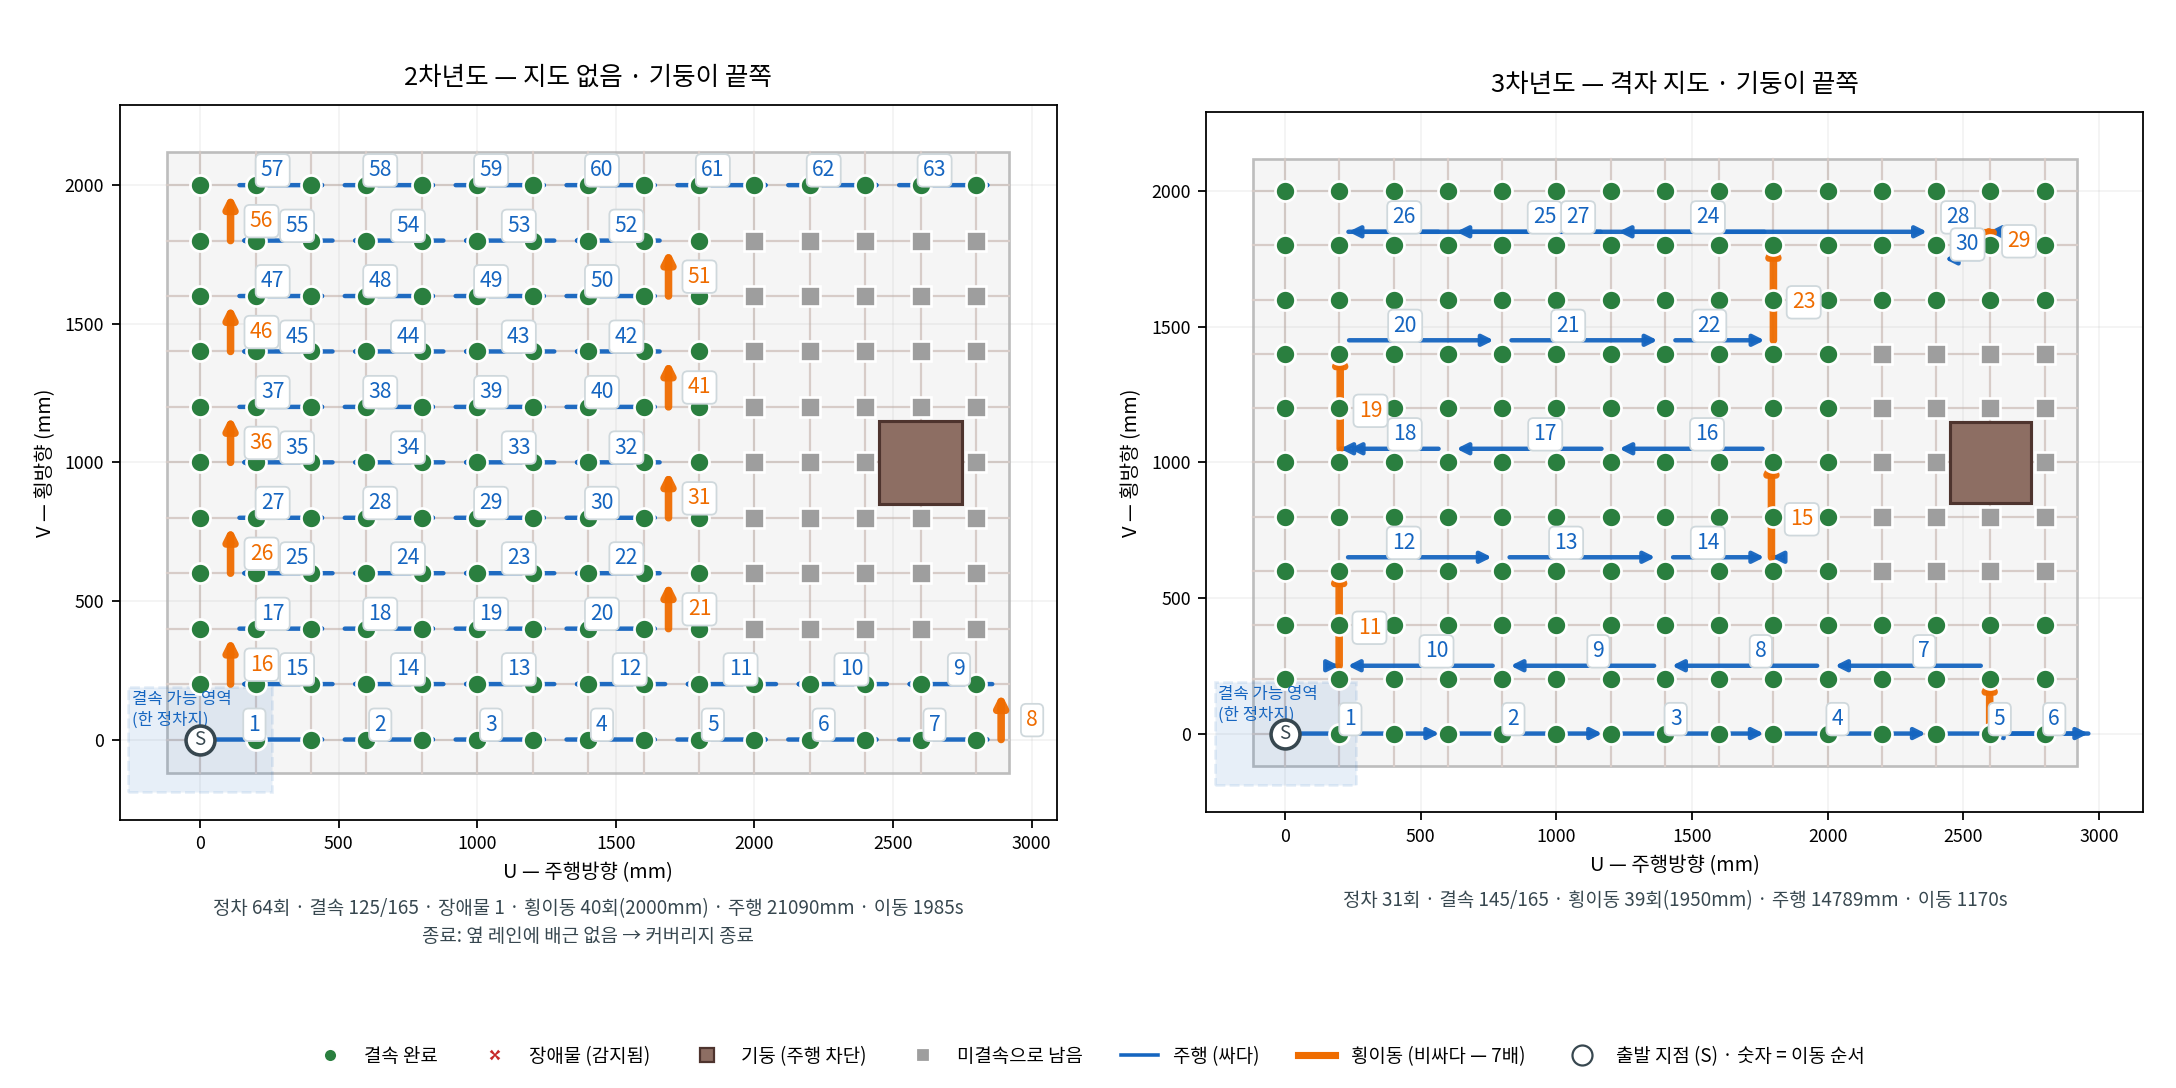
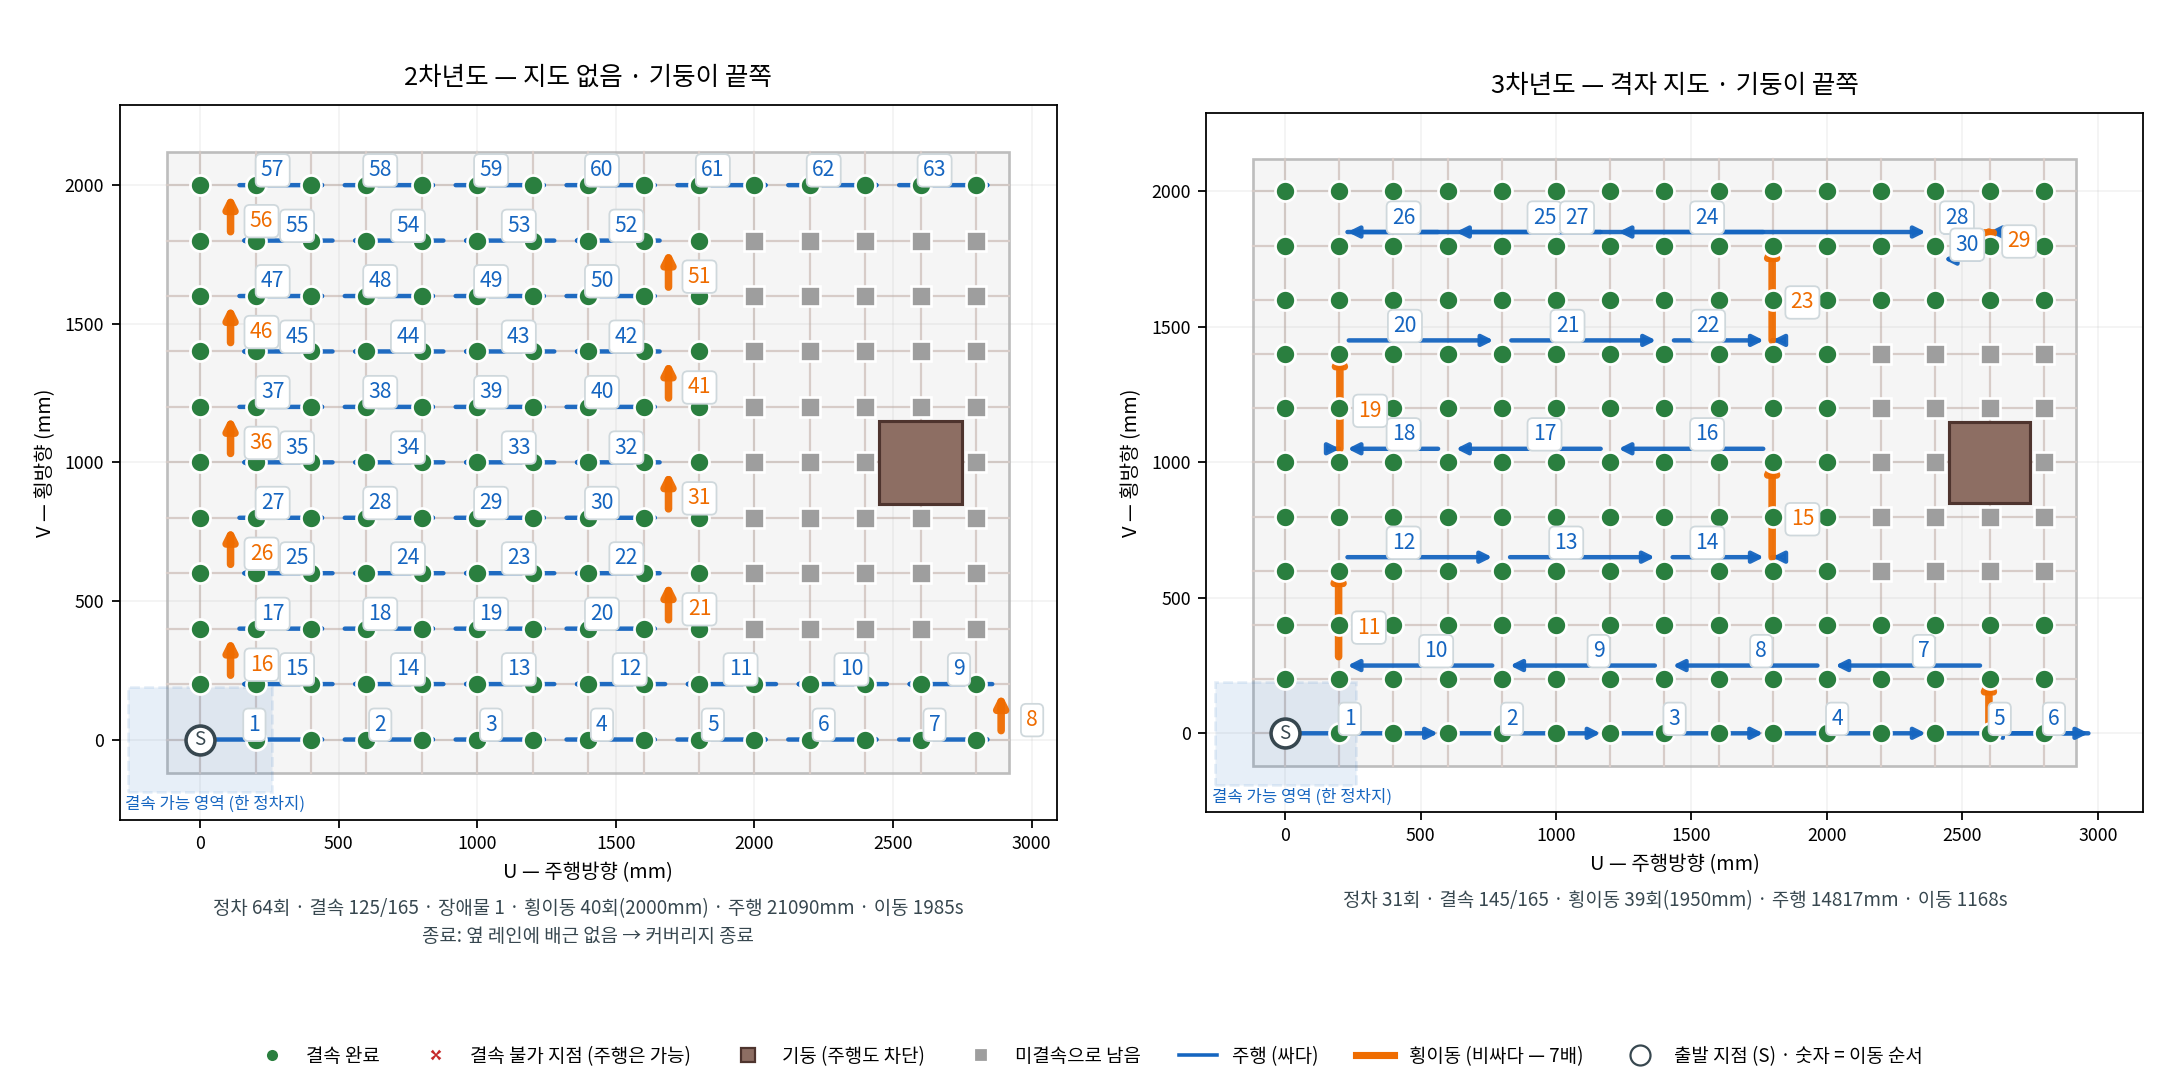
fix(autonomy): 찾은 경로를 끝까지 들고 간다 — 로봇이 기둥을 관통하고 있었다
A* 경로탐색을 넣으면서 **"갈 수 있나" 만 받고 찾은 경로는 버렸다.** 그래서
세 군데가 전부 틀려 있었다:

  실행  로봇이 ㄱ자 직선으로 기둥을 관통해 간다
  비용  ㄱ자 기준이라 돌아가는 거리가 안 들어간다 (과소평가)
  그림  관통하는 선이 그려진다

`path_to()` 가 (비용, 경로)를 돌려주고, 플래너가 그 비용으로 점수를 매기고,
시뮬이 그 경로를 따라 이동하고, 그림도 그 경로를 그린다.

**비용이 제대로 들어가니 선택 자체가 달라졌다** (15x11 + 기둥 한가운데):

            전(관통)        후(실제 경로)
  정차      32회            31회
  횡이동    39회 1950mm     78회 3900mm
  이동시간  1226초          1418초      ← 16% 증가. 전 수치는 가짜였다

커버리지와 정차 수는 거의 같아 결론은 안 바뀌지만, 이동시간 계열은 전부
낙관 편향돼 있었다. 기둥 틈 시나리오도 11 → 10정차.

## 라벨 정정 (동작 변경 아님)

빨간 × 를 "장애물 (감지됨)" 으로 써 두어, 주행도 막는 것처럼 읽혔다.
실제로는 **결속 불가 지점(주행은 가능)** 이고 주행을 막는 것은 기둥뿐이다.
이 구분이 흐려지면 "지도가 있으면 뭐가 달라지나" 가 흐려진다 — 결속만 막는
것은 2차년도도 그냥 지나가며 처리하고, 격자 지도의 이득은 **주행 판정을
건드리는 장애물**에서만 나온다.

  범례    장애물 (감지됨) → 결속 불가 지점 (주행은 가능)
  시나리오 "가운데 막힘"  → "가운데가 결속 불가 (주행은 가능)"
  "결속 가능 영역" 라벨이 출발점·1번과 겹쳐 사각 바깥으로

⚠ 이 네 가지(판 크기·200mm 겹침·기둥 관통·라벨 오해)는 전부 **그림을 보고**
   나왔다. 숫자만 보면 그럴듯했다.

diff --git a/tools/test/coverage_plot.py b/tools/test/coverage_plot.py
@@ -61,42 +61,39 @@ def _draw(ax, world, trace, reach_bbox, title, note=''):
         ax.add_patch(Rectangle((ru + b[0], rv + b[2]), b[1] - b[0], b[3] - b[2],
                                fc=C_REACH, alpha=0.10, ec=C_REACH, ls='--',
                                lw=1.2, zorder=2))
-        # 사각 **안쪽 위**에 붙인다 — 가운데는 이제 정차지 번호가 쓴다
-        ax.text(ru + b[0] + 14, rv + b[3] - 14, '결속 가능 영역\n(한 정차지)',
-                color=C_REACH, fontsize=7.5, va='top', ha='left',
-                linespacing=1.3, zorder=6)
+        # 사각 **바깥 왼쪽 아래**에 붙인다. 안쪽에 두면 출발점·1번 번호와
+        # 겹친다 (사각의 네 모서리에 전부 뭔가가 온다).
+        ax.text(ru + b[0] - 10, rv + b[2] - 14, '결속 가능 영역 (한 정차지)',
+                color=C_REACH, fontsize=7.5, va='top', ha='left', zorder=6)
 
-    # 이동 경로 — **ㄱ자로 꺾어 그린다.** 로봇은 주행과 횡이동을 동시에 하지
-    # 않는다 (주행은 궤도, 횡이동은 2축 리프팅). 대각선으로 그리면 거짓말이다.
-    # 순서 번호는 **화살표 위**에 올린다.
+    # 이동 경로 — **계획이 실제로 간 경로를 그린다.** 전에는 ㄱ자를 다시
+    # 만들어 그렸는데, 기둥을 돌아가는 경로는 구간이 셋 이상이라 그러면
+    # **기둥을 관통하는 선**이 나온다 (사용자 지적 2026-10-17).
     P = [cen(s_['pose']) for s_ in trace['stops']]
-    for i, (a, c) in enumerate(zip(P, P[1:])):
-        corner = (c[0], a[1])
-        legs = []
-        if abs(c[0] - a[0]) > 1.0:
-            ax.annotate('', xy=corner, xytext=a, zorder=4,
-                        arrowprops=dict(arrowstyle='-|>', shrinkA=4,
-                                        shrinkB=0 if abs(c[1] - a[1]) > 1 else 4,
-                                        color=C_DRIVE, lw=2.0, alpha=0.95))
-            legs.append((a, corner, 'u'))
-        if abs(c[1] - a[1]) > 1.0:
-            ax.annotate('', xy=c, xytext=corner, zorder=4,
-                        arrowprops=dict(arrowstyle='-|>', shrinkA=0, shrinkB=4,
-                                        color=C_LAT, lw=3.4, alpha=0.95))
-            legs.append((corner, c, 'v'))
+    for i, s_ in enumerate(trace['stops'][:-1]):
+        raw = s_.get('out') or [s_['pose'], trace['stops'][i + 1]['pose']]
+        legs = [(cen(a), cen(b)) for a, b in zip(raw, raw[1:])
+                if abs(b[0] - a[0]) > 1.0 or abs(b[1] - a[1]) > 1.0]
+        for k, (p0, p1) in enumerate(legs):
+            lat = abs(p1[1] - p0[1]) > 1.0
+            ax.annotate('', xy=p1, xytext=p0, zorder=4,
+                        arrowprops=dict(arrowstyle='-|>',
+                                        shrinkA=4 if k == 0 else 0,
+                                        shrinkB=4 if k == len(legs) - 1 else 0,
+                                        color=C_LAT if lat else C_DRIVE,
+                                        lw=3.4 if lat else 2.0, alpha=0.95))
         if not legs:
             continue
-        # 긴 쪽 구간의 가운데 위에 번호를 둔다
-        p0, p1, kind = max(legs, key=lambda L: abs(L[1][0] - L[0][0])
-                           + abs(L[1][1] - L[0][1]))
-        # ⚠ 가운데에 일률적으로 두면 **ㄱ자의 두 구간 라벨이 겹친다**.
-        #   주행은 40% 지점 위, 횡이동은 35% 지점 옆 — 떨어뜨려 놓는다.
-        f = 0.40 if kind == 'u' else 0.35
+        # 번호는 **가장 긴 구간** 위에. ㄱ자의 두 구간이 겹치지 않게 비켜 둔다
+        p0, p1 = max(legs, key=lambda L: abs(L[1][0] - L[0][0])
+                     + abs(L[1][1] - L[0][1]))
+        lat = abs(p1[1] - p0[1]) > 1.0
+        f = 0.35 if lat else 0.40
         mx, my = p0[0] + (p1[0] - p0[0]) * f, p0[1] + (p1[1] - p0[1]) * f
         off = 0.14 * (b[3] - b[2])
-        tx, ty = (mx, my + off) if kind == 'u' else (mx + off * 2.1, my)
+        tx, ty = (mx + off * 2.1, my) if lat else (mx, my + off)
         ax.text(tx, ty, str(i + 1), ha='center', va='center', fontsize=9.5,
-                color=C_DRIVE if kind == 'u' else C_LAT, zorder=8,
+                color=C_LAT if lat else C_DRIVE, zorder=8,
                 bbox=dict(fc='#FFFFFF', ec='#CFD8DC', lw=0.8, pad=1.6,
                           boxstyle='round,pad=0.25'))
 
@@ -140,9 +137,10 @@ def _legend(fig, y):
     """범례. 그림 폭에 맞춰 줄 수를 나눈다 (한 줄에 6개면 오른쪽이 잘렸다)."""
     h = [
         plt.Line2D([], [], marker='o', ls='', color=C_TIED, mec='w', label='결속 완료'),
-        plt.Line2D([], [], marker='X', ls='', color=C_FAIL, mec='w', label='장애물 (감지됨)'),
+        plt.Line2D([], [], marker='X', ls='', color=C_FAIL, mec='w',
+                   label='결속 불가 지점 (주행은 가능)'),
         plt.Line2D([], [], marker='s', ls='', color='#8d6e63', mec='#4e342e',
-                   label='기둥 (주행 차단)'),
+                   label='기둥 (주행도 차단)'),
         plt.Line2D([], [], marker='s', ls='', color=C_LEFT, mec='w', label='미결속으로 남음'),
         plt.Line2D([], [], color=C_DRIVE, lw=1.6, label='주행 (싸다)'),
         plt.Line2D([], [], color=C_LAT, lw=3.2, label='횡이동 (비싸다 — 7배)'),

diff --git a/src/rmd_robot_control/rmd_robot_control/coverage_map.py b/src/rmd_robot_control/rmd_robot_control/coverage_map.py
@@ -472,19 +472,17 @@ class CoverageMap:
         """그 자리에 설 수 있나 — 자유공간 층에 묻는다."""
         return self.space.occupiable(ru, rv)
 
-    def move_ok(self, ru1, rv1):
-        """지금 자리에서 그 자리로 갈 수 있나 (통로 통과 포함).
+    def path_to(self, ru1, rv1):
+        """지금 자리에서 그 자리까지의 **경로와 비용**. 못 가면 None.
 
-        ㄱ자 한 번으로 되면 그것으로 끝낸다 (싸다). 안 되면 **경로를 찾는다** —
-        기둥 틈으로 돌아 나오는 길은 구간이 셋 이상이라 ㄱ자로는 표현이 안 된다.
+        ⚠ 가능 여부만 받아 오고 실행은 ㄱ자로 하면 **기둥을 관통한다.**
+          경로를 그대로 들고 다녀야 한다 (실행·비용·그림 전부).
         """
-        a, b = (self.ru, self.rv), (ru1, rv1)
-        if self.space.move_ok(a, b):
-            return True
-        if not self.space.occupiable(*b):
-            return False
-        return self.space.route(a, b, drive_mm_s=self.cost.drive_mm_s,
-                                lat_turn_s=self.cost.lat_turn_s) is not None
+        return self.space.path_to((self.ru, self.rv), (ru1, rv1), self.cost)
+
+    def move_ok(self, ru1, rv1):
+        """갈 수 있나 (호환용 — 새 코드는 `path_to` 를 쓴다)."""
+        return self.path_to(ru1, rv1) is not None
 
     def pending(self):
         return [c for c in self.cells.values() if c.state == PENDING]
@@ -651,16 +649,18 @@ class CoverageMap:
                 # 제자리 — 닿는 것은 이미 다 묶었으므로 아무것도 안 바뀐다.
                 # 금지하지 않으면 **같은 자리를 계속 고른다** (시뮬에서 2회 발생).
                 continue
-            if not self.move_ok(ru, rv):
+            pr = self.path_to(ru, rv)
+            if pr is None:
                 continue
-            cst = self.cost.move(ru - self.ru, turns)
+            cst, path = pr
             score = yld / max(cst, 1e-6)
             # 정렬 키: 점수 ↑, 횡이동 적은 쪽, 주행 짧은 쪽
             k = (-score, abs(turns), abs(ru - self.ru))
             item = (k, {'kind': 'tie', 'ru': ru, 'rv': rv, 'turns': turns,
                         'drive_mm': ru - self.ru, 'cells': [c.key() for c, _ in got],
                         'poses': {c.key(): p for c, p in got},
-                        'frontier': nf, 'cost_s': cst, 'score': score})
+                        'frontier': nf, 'cost_s': cst, 'score': score,
+                        'path': path})
             if best is None or k < best[0]:
                 best = item
             if turns == 0 and (stay is None or k < stay[0]):
@@ -674,16 +674,18 @@ class CoverageMap:
         for ru, rv, turns, n in self.explore_candidates(fr):
             if abs(ru - self.ru) < 1.0 and turns == 0:
                 continue
-            if not self.move_ok(ru, rv):
+            pr = self.path_to(ru, rv)
+            if pr is None:
                 continue
-            cst = self.cost.move(ru - self.ru, turns)
+            cst, path = pr
             # 탐색은 **싼 것부터**. 많이 보는 것보다 가까운 것이 낫다 —
             # 어차피 다 보러 가야 하고, 멀리 질러갔다 오면 그만큼 되돌아온다.
             k = (round(cst, 3), -n, abs(turns))
             if best is None or k < best[0]:
                 best = (k, {'kind': 'explore', 'ru': ru, 'rv': rv, 'turns': turns,
                             'drive_mm': ru - self.ru, 'cells': [], 'poses': {},
-                            'reveal': n, 'cost_s': cst, 'score': 0.0})
+                            'reveal': n, 'cost_s': cst, 'score': 0.0,
+                            'path': path})
         return best[1] if best else None
 
     def snapshot(self):

diff --git a/src/rmd_robot_control/rmd_robot_control/coverage_space.py b/src/rmd_robot_control/rmd_robot_control/coverage_space.py
@@ -109,6 +109,37 @@ class FreeSpace:
                     return False
         return True
 
+    def path_to(self, a, b, cost, step=50.0):
+        """a → b 의 **실제 경로**와 비용. (비용초, [포즈…]) 또는 None.
+
+        ㄱ자 한 번으로 되면 그것으로 끝낸다(싸다). 안 되면 A* 로 돌아간다.
+
+        ⚠ **찾은 경로를 반드시 들고 다녀야 한다.** 처음에는 `move_ok` 로
+          가능 여부만 확인하고 실행·그림은 ㄱ자 직선으로 했는데, 그러면
+          로봇이 **기둥을 관통해서 간다** (사용자 지적 2026-10-17). 비용도
+          ㄱ자 기준이라 과소평가된다.
+        """
+        if self.move_ok(a, b, step):
+            corner = (b[0], a[1])
+            path = [a]
+            if abs(b[0] - a[0]) > 1e-6:
+                path.append(corner)
+            if abs(b[1] - a[1]) > 1e-6:
+                path.append(b)
+            if len(path) == 1:
+                path.append(b)
+            turns = int(round(abs(b[1] - a[1]) / 50.0))
+            return cost.move(b[0] - a[0], turns), path
+        if not self.occupiable(*b):
+            return None
+        r = self.route(a, b, drive_mm_s=cost.drive_mm_s,
+                       lat_turn_s=cost.lat_turn_s)
+        if r is None:
+            return None
+        # A* 비용에는 고정비가 빠져 있다 — 정차·주행·횡이동 고정비를 더한다
+        g, path = r
+        return g + cost.stop_fix + cost.drive_fix + cost.lat_fix, _simplify(path)
+
     def route(self, a, b, drive_mm_s=70.0, lat_turn_s=7.2, turn_s=2.0,
               u_step=100.0, v_step=50.0, pad=1600.0, max_nodes=40000):
         """a → b **경로**를 찾는다. 반환 (비용초, [포즈…]) 또는 None.
@@ -189,3 +220,19 @@ class FreeSpace:
 
 def _overlap(a, b):
     return a[0] < b[1] and b[0] < a[1] and a[2] < b[3] and b[2] < a[3]
+
+
+def _simplify(path):
+    """같은 축으로 이어지는 점을 접는다 — 꺾이는 곳만 남긴다."""
+    if len(path) < 3:
+        return list(path)
+    out = [path[0]]
+    for p, q in zip(path[1:-1], path[2:]):
+        a = out[-1]
+        if abs(p[0] - a[0]) < 1e-6 and abs(q[0] - p[0]) < 1e-6:
+            continue                       # 같은 U — 가운데 점은 필요 없다
+        if abs(p[1] - a[1]) < 1e-6 and abs(q[1] - p[1]) < 1e-6:
+            continue
+        out.append(p)
+    out.append(path[-1])
+    return out

diff --git a/tools/test/coverage_sim.py b/tools/test/coverage_sim.py
@@ -143,10 +143,17 @@ def run(world, reach, label, start, name_of=None, max_stops=200, verbose=False):
             print(f'        → {nxt["kind"]:7s} {tgt:>12s} 주행 {nxt["drive_mm"]:+7.0f}mm'
                   f' 횡 {nxt["turns"]:+3d}회({nxt["turns"]*LAT_MM_PER_TURN:+5.0f}mm)'
                   f' 셀 {len(nxt["cells"])}  {nxt["cost_s"]:5.1f}s')
-        trace['lat'] += abs(nxt['turns'])
-        trace['drive_mm'] += abs(nxt['drive_mm'])
+        # ★ 계획이 준 **경로를 그대로 따라간다.** 직선으로 가면 기둥을 뚫는다.
+        path = nxt.get('path') or [(cm.ru, cm.rv), (nxt['ru'], nxt['rv'])]
         trace['cost_s'] += nxt['cost_s']
-        cm.advance(world.drive(nxt['drive_mm']), nxt['turns'])
+        for p0, p1 in zip(path, path[1:]):
+            du, dv = p1[0] - p0[0], p1[1] - p0[1]
+            t = int(round(dv / LAT_MM_PER_TURN))
+            trace['drive_mm'] += abs(du)
+            trace['lat'] += abs(t)
+            cm.advance(world.drive(du) if du else 0.0, t)
+        cm.ru, cm.rv = nxt['ru'], nxt['rv']    # 누적 오차 보정은 다음 관측이 한다
+        trace['stops'][-1]['out'] = path
     else:
         print('  ⚠ 정차 상한 도달 — 플래너가 수렴하지 않았다')
 
@@ -453,7 +460,7 @@ def main():
                  ('현실 배근 15x11 + 기둥(한가운데)', scn_wall(reach, 'mid'))]
     if a.only in ('', 'field'):
         todo += [('현실 배근 7x5 (피치 200mm)', scn_field(reach)),
-                 ('현실 배근 7x5 + 가운데 막힘',
+                 ('현실 배근 7x5 + 가운데가 결속 불가 (주행은 가능)',
                   scn_field(reach, blocked_rect=(400, 800, 200, 400)))]
     if a.only in ('', 'gap'):
         todo += [('기둥 사이 틈 1300mm — 통과', scn_gap(reach, 1300.0)),
